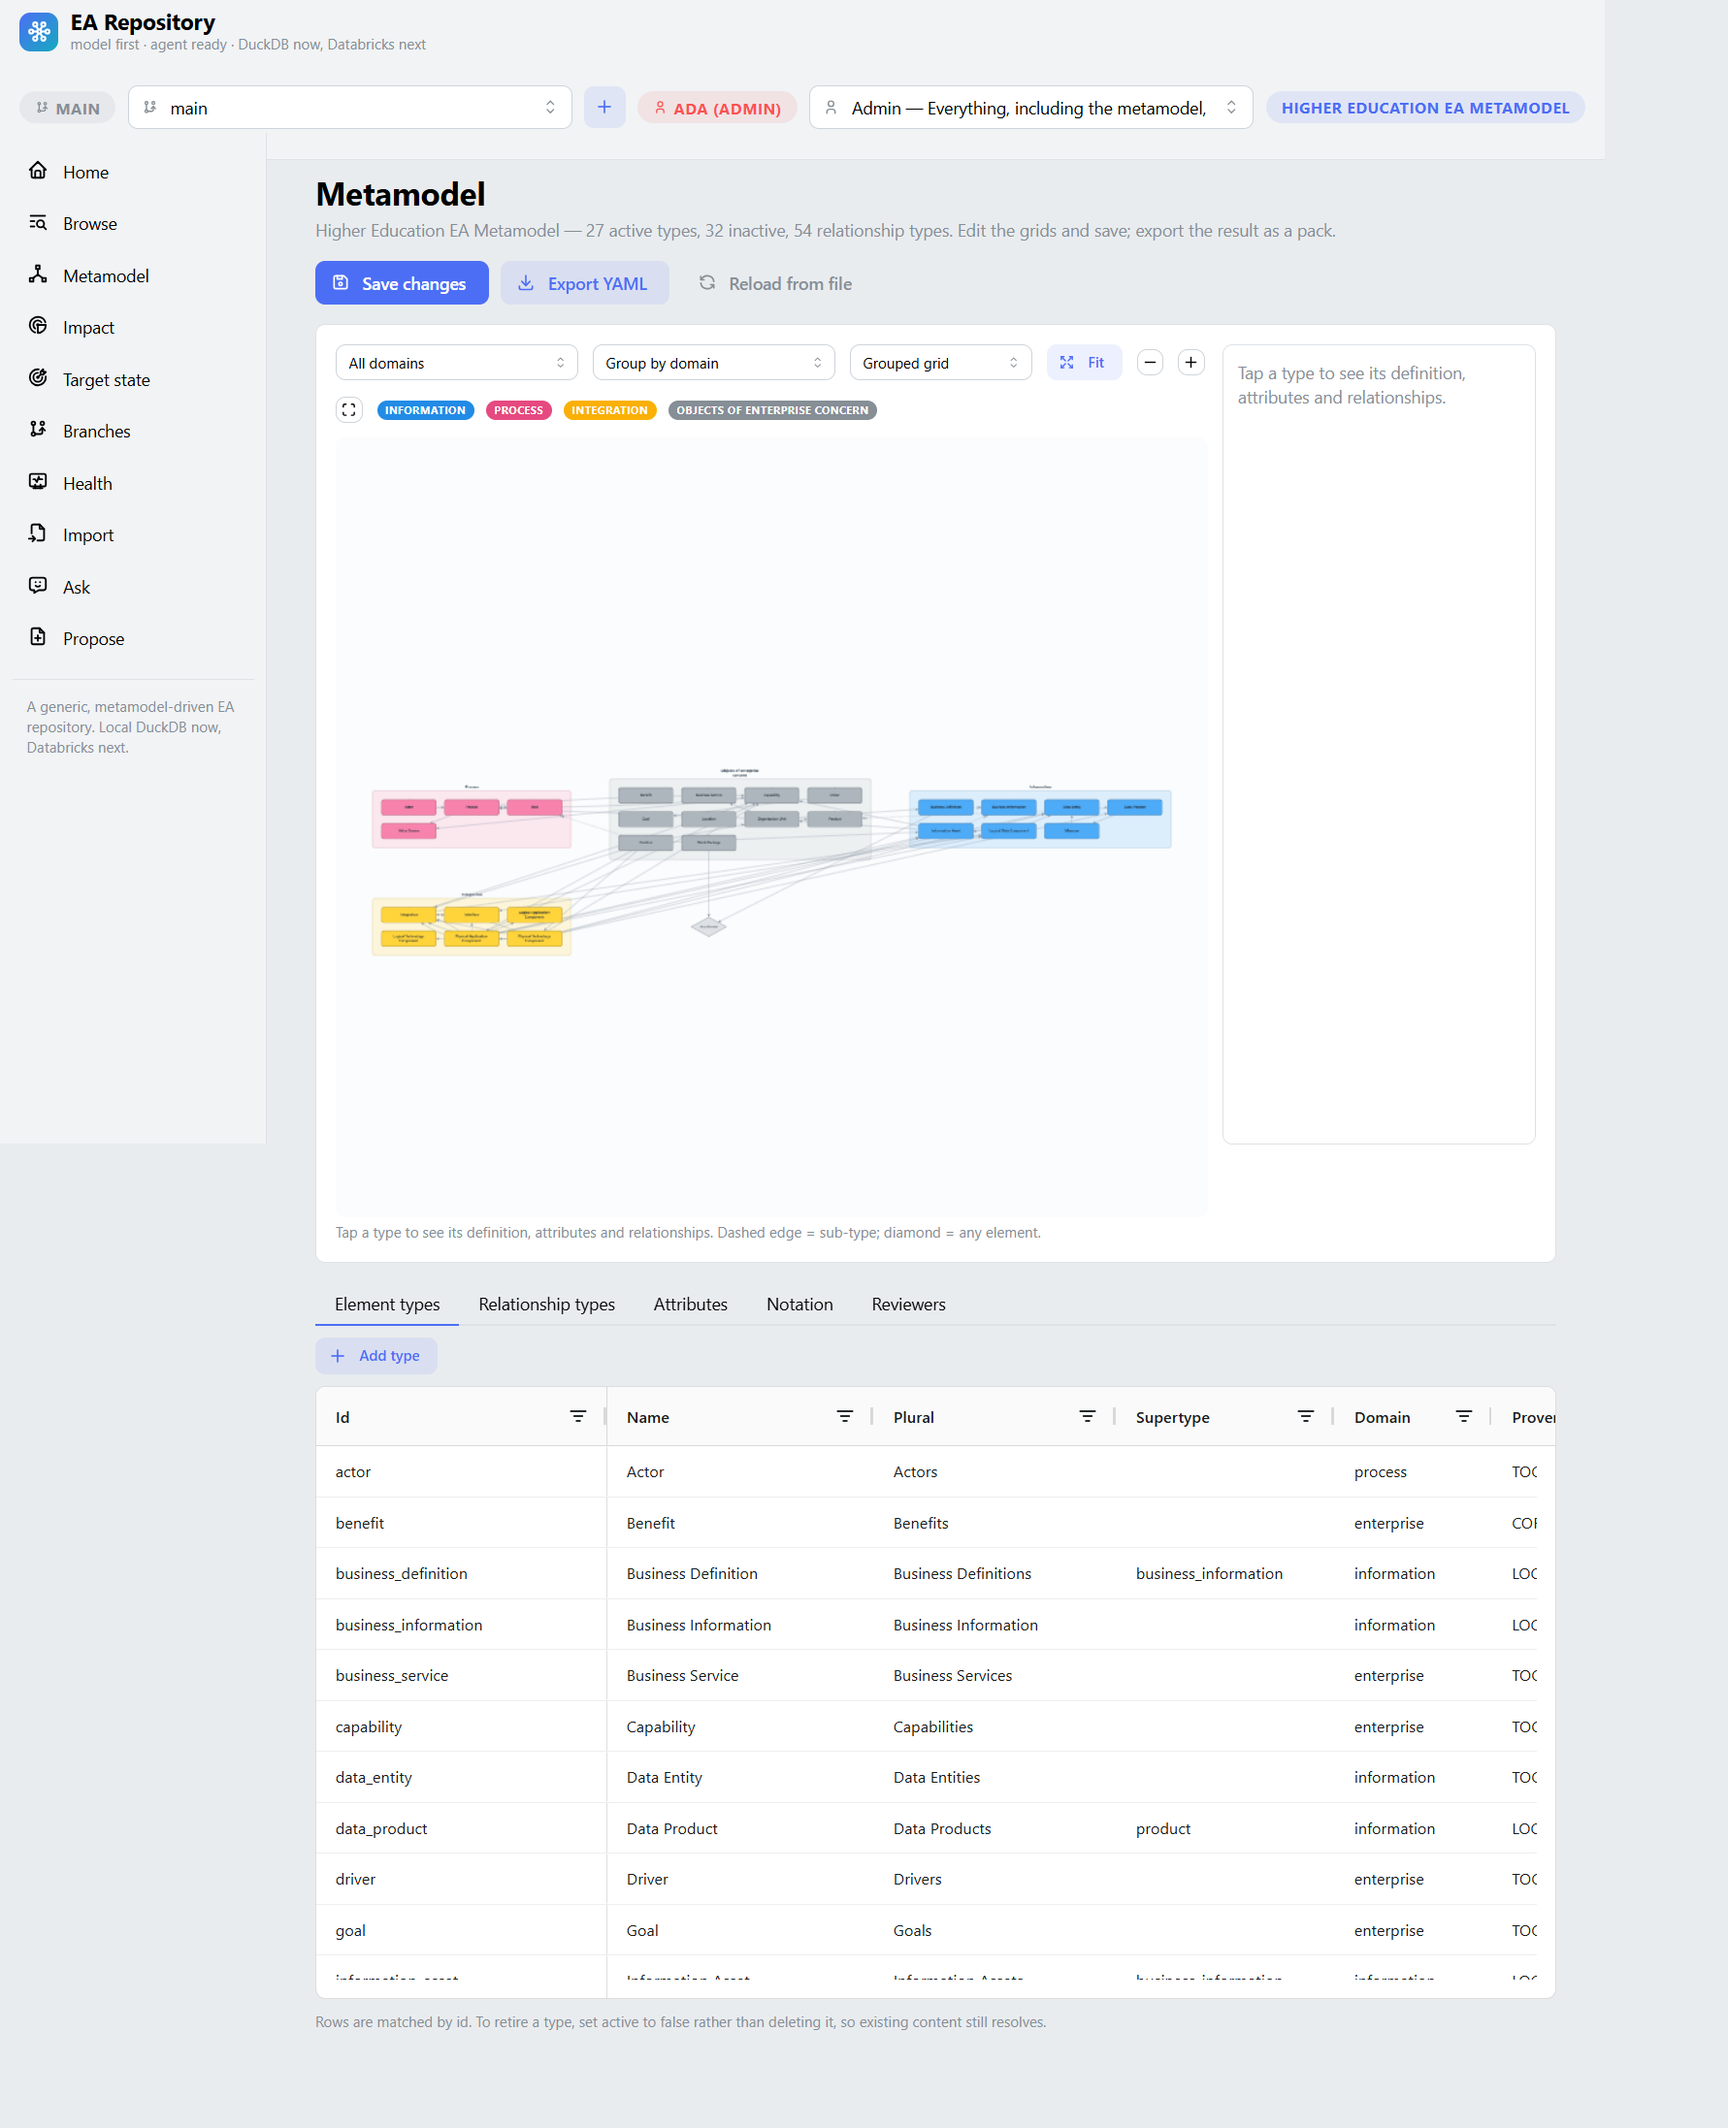
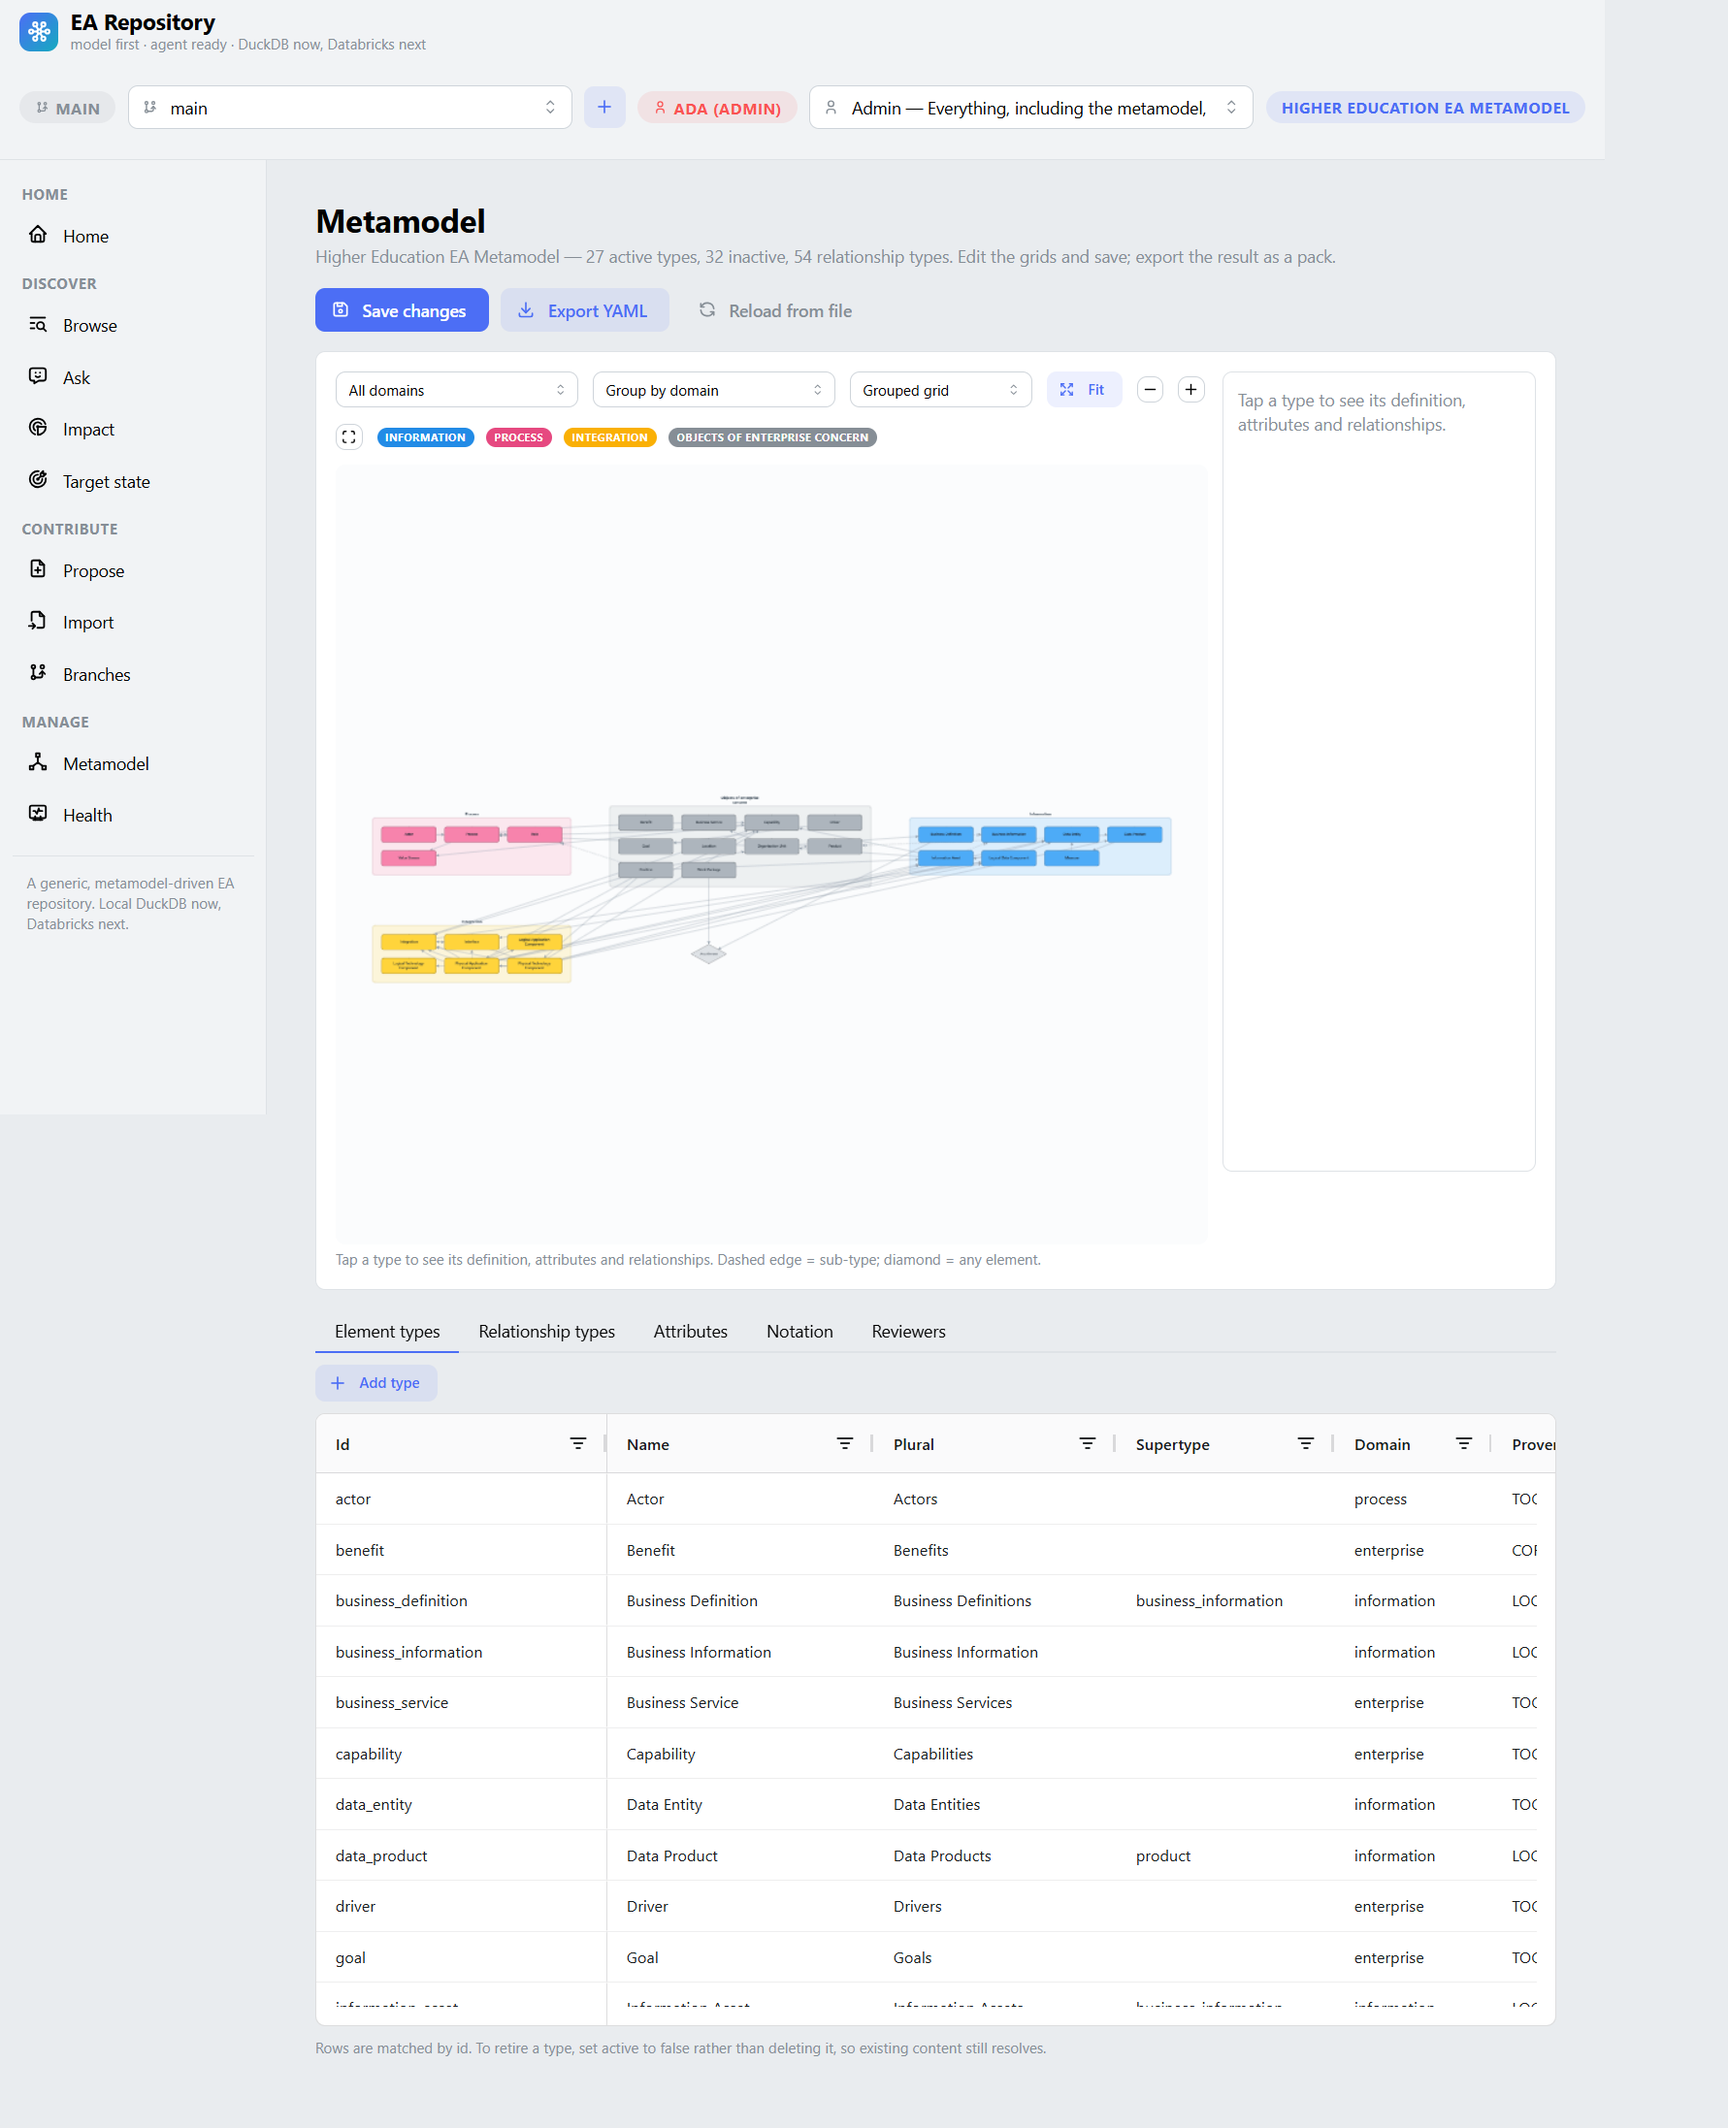
feat(ui): navigation grouped into Home, Discover, Contribute and Manage, README gallery in the same flow

diff --git a/assets/styles.css b/assets/styles.css
@@ -121,6 +121,7 @@ body { background: #e9ecef; }
 .ea-header-inner { flex-wrap: nowrap; min-height: 56px; }
 .ea-header-controls { min-width: 0; }
 .mantine-NavLink-root { border-radius: 8px; }
+.ea-nav-section { margin: 10px 8px 2px; text-transform: uppercase; letter-spacing: 0.04em; }
 .mantine-NavLink-root[data-active] { background: #edf2ff; color: #3b5bdb; font-weight: 600; }
 
 @media (min-width: 48em) and (max-width: 87.99em) {

diff --git a/src/ea/ui/layout.py b/src/ea/ui/layout.py
@@ -19,17 +19,32 @@ THEME = {
     "headings": {"fontWeight": "650"},
 }
 
-NAV = [
-    ("Home", "/", "tabler:home"),
-    ("Browse", "/browse", "tabler:list-search"),
-    ("Metamodel", "/metamodel", "tabler:hierarchy-2"),
-    ("Impact", "/impact", "tabler:radar"),
-    ("Target state", "/target", "tabler:target-arrow"),
-    ("Branches", "/branches", "tabler:git-branch"),
-    ("Health", "/health", "tabler:heart-rate-monitor"),
-    ("Import", "/import", "tabler:file-import"),
-    ("Ask", "/ask", "tabler:message-chatbot"),
-    ("Propose", "/propose", "tabler:file-plus"),
+NAV_SECTIONS = [
+    ("Home", [("Home", "/", "tabler:home")]),
+    (
+        "Discover",
+        [
+            ("Browse", "/browse", "tabler:list-search"),
+            ("Ask", "/ask", "tabler:message-chatbot"),
+            ("Impact", "/impact", "tabler:radar"),
+            ("Target state", "/target", "tabler:target-arrow"),
+        ],
+    ),
+    (
+        "Contribute",
+        [
+            ("Propose", "/propose", "tabler:file-plus"),
+            ("Import", "/import", "tabler:file-import"),
+            ("Branches", "/branches", "tabler:git-branch"),
+        ],
+    ),
+    (
+        "Manage",
+        [
+            ("Metamodel", "/metamodel", "tabler:hierarchy-2"),
+            ("Health", "/health", "tabler:heart-rate-monitor"),
+        ],
+    ),
 ]
 
 
@@ -206,14 +221,23 @@ def shell(
                     dmc.AppShellNavbar(
                         dmc.Stack(
                             [
-                                dmc.NavLink(
-                                    label=label,
-                                    href=href,
-                                    leftSection=icon(ic, 18),
-                                    id=f"nav-{href.strip('/') or 'home'}",
-                                    variant="light",
-                                )
-                                for label, href, ic in NAV
+                                item
+                                for section, links in NAV_SECTIONS
+                                for item in [
+                                    dmc.Text(
+                                        section, size="xs", fw=700, c="dimmed", className="ea-nav-section"
+                                    ),
+                                    *[
+                                        dmc.NavLink(
+                                            label=label,
+                                            href=href,
+                                            leftSection=icon(ic, 18),
+                                            id=f"nav-{href.strip('/') or 'home'}",
+                                            variant="light",
+                                        )
+                                        for label, href, ic in links
+                                    ],
+                                ]
                             ]
                             + [
                                 dmc.Divider(my="sm"),

diff --git a/architecture/scope/12_navigation-flow-and-screenshot-order.md b/architecture/scope/12_navigation-flow-and-screenshot-order.md
@@ -1,0 +1,61 @@
+# Project Scope — Navigation Flow and Screenshot Order
+
+_[← Scope index](./README.md) · [Model home](../README.md)_
+
+**ArchiMate viewpoint:** Implementation & Migration.
+**Delivered as:** the working branch.
+
+This initiative groups the app navigation into a more readable flow — Home, Discover, Contribute and Manage — and orders the README screenshot gallery to match that flow.
+
+## EA alignment (assessed top-down before implementing)
+
+| Layer | Impact |
+| ----- | ------ |
+| 0_business-design | Not used — this is a Depth 1 application project. |
+| 1_strategy | No new strategy element. The change serves `G4` (Goal 4 — Show a working PoC within a month) by making the demo easier to follow. |
+| 2_business | No new role, process or service. The menu groups existing services by reader task flow. |
+| 3_information | No stored data or exchange format change. |
+| 4_application | The shell navigation groups existing pages into Home, Discover, Contribute and Manage; the README screenshot gallery follows the same order. |
+| 5_technology | No runtime, build, hosting or storage change. |
+
+## Approvals
+
+| Gate | Approved by | Date | What was approved |
+| ---- | ----------- | ---- | ----------------- |
+| Gate 0 — Business model | N/A — subject is a single application. | 2026-09-07 | N/A |
+| Gate 1 — Strategy | N/A — no new stakeholder, driver, goal, principle or value stream change. | 2026-09-07 | N/A |
+| Gate 2 — Business | Requester | 2026-09-07 | This scope document and the no-change verdicts for strategy, business and information; approved in the conversation. |
+| Gate 3 — Solution design | N/A — not requested by the Requester. | 2026-09-07 | N/A |
+
+## Plateaus
+
+| Plateau | State |
+| ------- | ----- |
+| **Baseline** (before) | The menu is a flat page list and the README screenshots are not ordered by the intended task flow. |
+| **Target** (delivered) | The menu is grouped by task flow and the README screenshots follow that order. |
+
+## Work packages and deliverables
+
+### WP1 — Navigation and screenshot order
+
+- **Deliverables:** `src/ea/ui/layout.py`, `assets/styles.css`, `README.md`, `architecture/scope/README.md`.
+- **Outcome:** A reader can follow the app from discovery through contribution and management, and the screenshots tell the same story.
+
+## In scope / out of scope
+
+| In scope | Out of scope (gaps, candidate future work) |
+| -------- | ------------------------------------------- |
+| Grouping the existing menu items. | Adding or removing app pages. |
+| Reordering the existing README screenshots. | Recapturing every screenshot solely because the menu labels changed. |
+
+## Gap notes
+
+- A future role-specific menu could hide whole groups by permission; this initiative keeps every group visible and leaves enforcement to existing role checks.
+
+## Delivered
+
+Built on 2026-09-07 on the working branch: the navigation grouped into Home, Discover (Browse, Ask, Impact, Target state), Contribute (Propose, Import, Branches) and Manage (Metamodel, Health) with section headings (`src/ea/ui/layout.py`, `assets/styles.css`); the README screenshot gallery grouped and ordered to the same flow, with every screenshot recaptured so the grouped menu is what the images show (`README.md`, `docs/screenshots/`).
+
+## Open questions
+
+- None.

diff --git a/architecture/scope/README.md b/architecture/scope/README.md
@@ -68,3 +68,4 @@ its own initiative with its own Understanding.
 | 9   | [9_import-template.md](./9_import-template.md) | the working branch | Import page download of a generic CSV contract template archive for prospective adopters |
 | 10  | [10_markdown-editor-and-preview.md](./10_markdown-editor-and-preview.md) | the working branch | Markdown authoring controls and preview for Markdown-capable fields, with Mermaid rendering in reader views |
 | 11  | [11_gui-review-grey-theme-and-editor-modes.md](./11_gui-review-grey-theme-and-editor-modes.md) | the working branch | GUI review: editor Edit/Split/Preview modes, grey theme, process-ordered actions, one destination field each on Propose, current state as the one indicator, persona cleanup, reader-view Mermaid and Impact selector fixes |
+| 12  | [12_navigation-flow-and-screenshot-order.md](./12_navigation-flow-and-screenshot-order.md) | the working branch | Navigation grouped into Home, Discover, Contribute and Manage, with README screenshots ordered to match |
